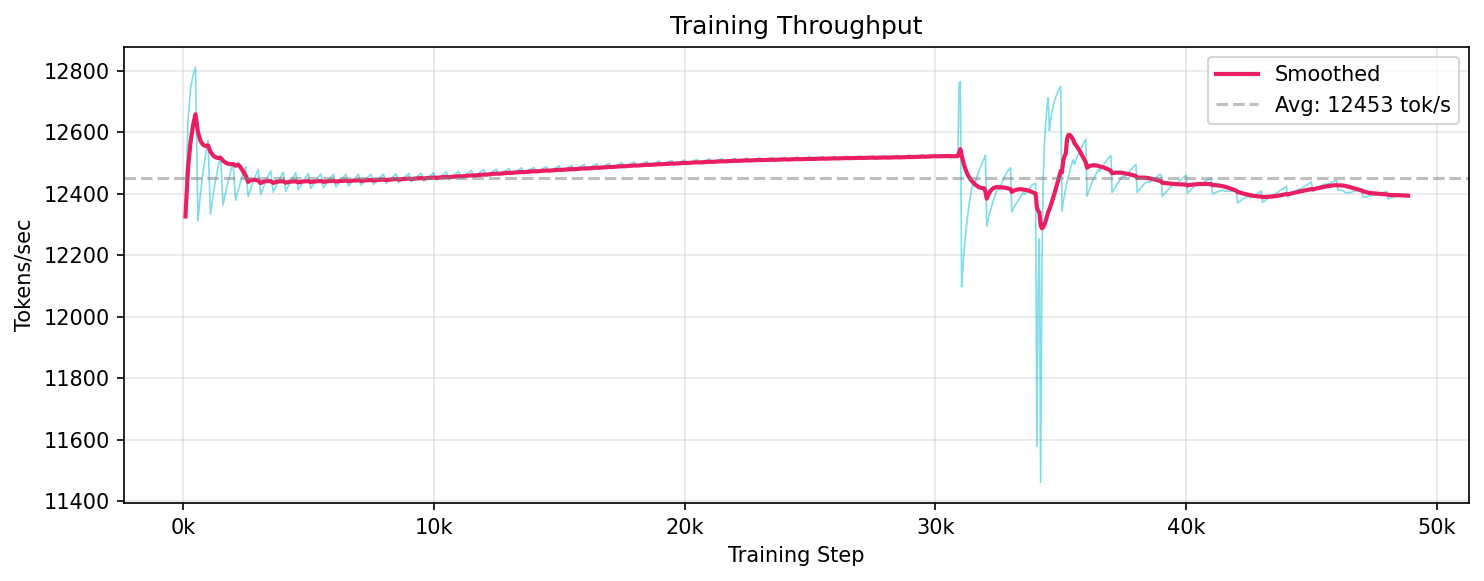
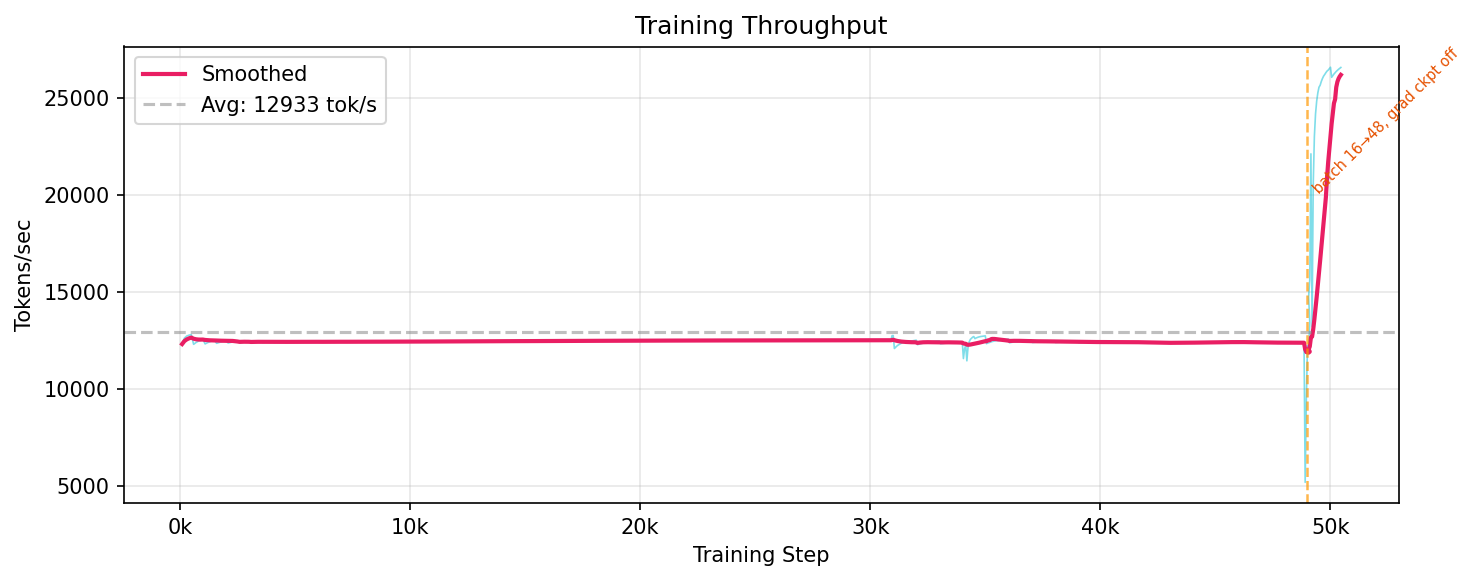
Increase batch size 16→48, disable grad checkpointing, annotate plots
Doubled VRAM utilization (65%→92%) and throughput (12.4k→26k tok/s)
by increasing batch size to 48 and disabling gradient checkpointing.
Added training event annotations to all plots to explain the loss spike.

diff --git a/plot_training.py b/plot_training.py
@@ -31,6 +31,36 @@ TOURNAMENT_FILE = "logs/tournament_metrics.csv"
 SAMPLES_FILE = "logs/samples.jsonl"
 PLOT_DIR = "logs/plots"
 
+# Notable training events to annotate on plots
+# (step, short_label, description)
+TRAINING_EVENTS = [
+    (49000, "batch 16\u219248, grad ckpt off",
+     "Batch size 16\u219248, disabled gradient checkpointing.\n"
+     "Doubled VRAM usage (65%\u219292%), ~2x throughput.\n"
+     "Loss spike is expected and recovers quickly."),
+]
+
+
+def annotate_events(ax, metrics, x_key="step"):
+    """Add vertical lines and labels for notable training events."""
+    if not metrics or not TRAINING_EVENTS:
+        return
+    x_vals = [m[x_key] for m in metrics]
+    x_min, x_max = min(x_vals), max(x_vals)
+    for step, label, _ in TRAINING_EVENTS:
+        # Map step to the appropriate x-axis value
+        if x_key == "step":
+            x = step
+        else:
+            # Find the closest metric entry to this step
+            closest = min(metrics, key=lambda m: abs(m["step"] - step))
+            x = closest[x_key]
+        if x < x_min or x > x_max:
+            continue
+        ax.axvline(x=x, color="#FF9800", linestyle="--", alpha=0.7, linewidth=1.2)
+        ax.text(x, ax.get_ylim()[1], f" {label}", rotation=45, fontsize=7,
+                color="#E65100", ha="left", va="top")
+
 
 def load_metrics(path):
     """Load metrics CSV into list of dicts."""
@@ -107,6 +137,7 @@ def plot_training_loss(metrics, save_dir=None):
     ax1.legend()
     ax1.grid(True, alpha=0.3)
     ax1.xaxis.set_major_formatter(ticker.FuncFormatter(lambda x, _: f"{x/1000:.0f}k"))
+    annotate_events(ax1, metrics, x_key="step")
 
     # Loss vs tokens
     ax2.plot(tokens_b, losses, color="#2196F3", linewidth=0.8, alpha=0.5, label="Raw")
@@ -117,6 +148,7 @@ def plot_training_loss(metrics, save_dir=None):
     ax2.set_title("Training Loss vs Tokens Processed")
     ax2.legend()
     ax2.grid(True, alpha=0.3)
+    annotate_events(ax2, metrics, x_key="tokens_billions")
 
     plt.suptitle("Hamner Training Progress", fontsize=14, fontweight="bold")
     plt.tight_layout()
@@ -154,6 +186,7 @@ def plot_perplexity(metrics, save_dir=None):
     ax.legend()
     ax.grid(True, alpha=0.3)
     ax.xaxis.set_major_formatter(ticker.FuncFormatter(lambda x, _: f"{x/1000:.0f}k"))
+    annotate_events(ax, metrics, x_key="step")
 
     plt.tight_layout()
     if save_dir:
@@ -212,6 +245,7 @@ def plot_throughput(metrics, save_dir=None):
     ax.legend()
     ax.grid(True, alpha=0.3)
     ax.xaxis.set_major_formatter(ticker.FuncFormatter(lambda x, _: f"{x/1000:.0f}k"))
+    annotate_events(ax, metrics, x_key="step")
 
     plt.tight_layout()
     if save_dir:
@@ -394,6 +428,7 @@ def plot_all_dashboard(metrics, tournament_data, samples_data, save_dir=None):
     ax1.set_ylabel("Loss")
     ax1.set_title("Training Loss")
     ax1.grid(True, alpha=0.3)
+    annotate_events(ax1, metrics, x_key="tokens_billions")
 
     # 2. Perplexity (top right)
     ax2 = fig.add_subplot(2, 2, 2)
@@ -405,6 +440,7 @@ def plot_all_dashboard(metrics, tournament_data, samples_data, save_dir=None):
     ax2.set_title("Perplexity")
     ax2.set_yscale("log")
     ax2.grid(True, alpha=0.3)
+    annotate_events(ax2, metrics, x_key="tokens_billions")
 
     # 3. Throughput (bottom left)
     ax3 = fig.add_subplot(2, 2, 3)
@@ -418,6 +454,7 @@ def plot_all_dashboard(metrics, tournament_data, samples_data, save_dir=None):
     ax3.set_title(f"Throughput (avg: {avg_tps:.0f} tok/s)")
     ax3.grid(True, alpha=0.3)
     ax3.xaxis.set_major_formatter(ticker.FuncFormatter(lambda x, _: f"{x/1000:.0f}k"))
+    annotate_events(ax3, metrics, x_key="step")
 
     # 4. Stats summary (bottom right)
     ax4 = fig.add_subplot(2, 2, 4)

diff --git a/train.py b/train.py
@@ -45,13 +45,13 @@ MODEL_CONFIG = dict(
     num_active_experts=1,
     expert_intermediate_size=2048,
     use_differential_attention=False,
-    gradient_checkpointing=True,
+    gradient_checkpointing=False,
     max_seq_len=1024,
     # vocab_size set from tokenizer
 )
 
 # Training hyperparameters
-BATCH_SIZE = 16
+BATCH_SIZE = 48
 SEQ_LEN = 1024
 LR = 3e-4
 WARMUP_STEPS = 2000
